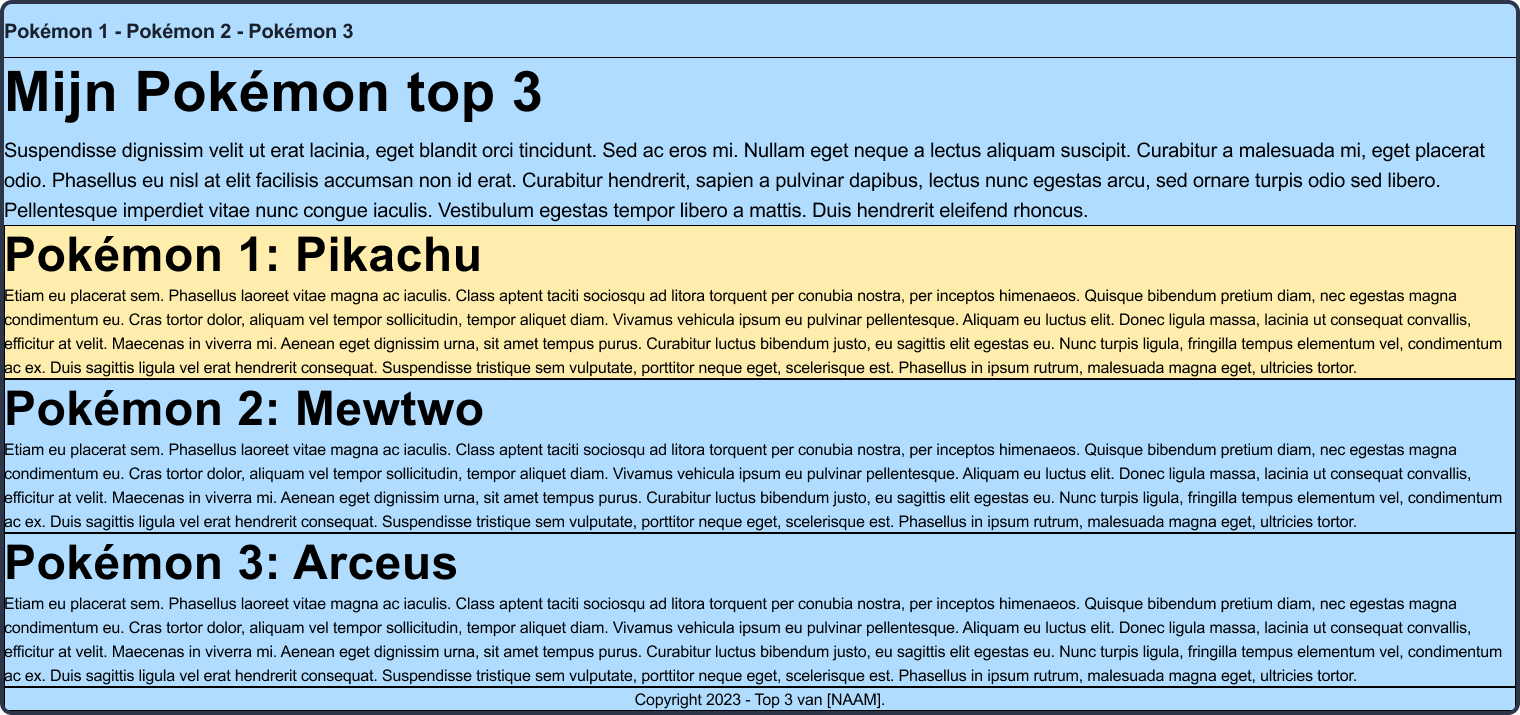
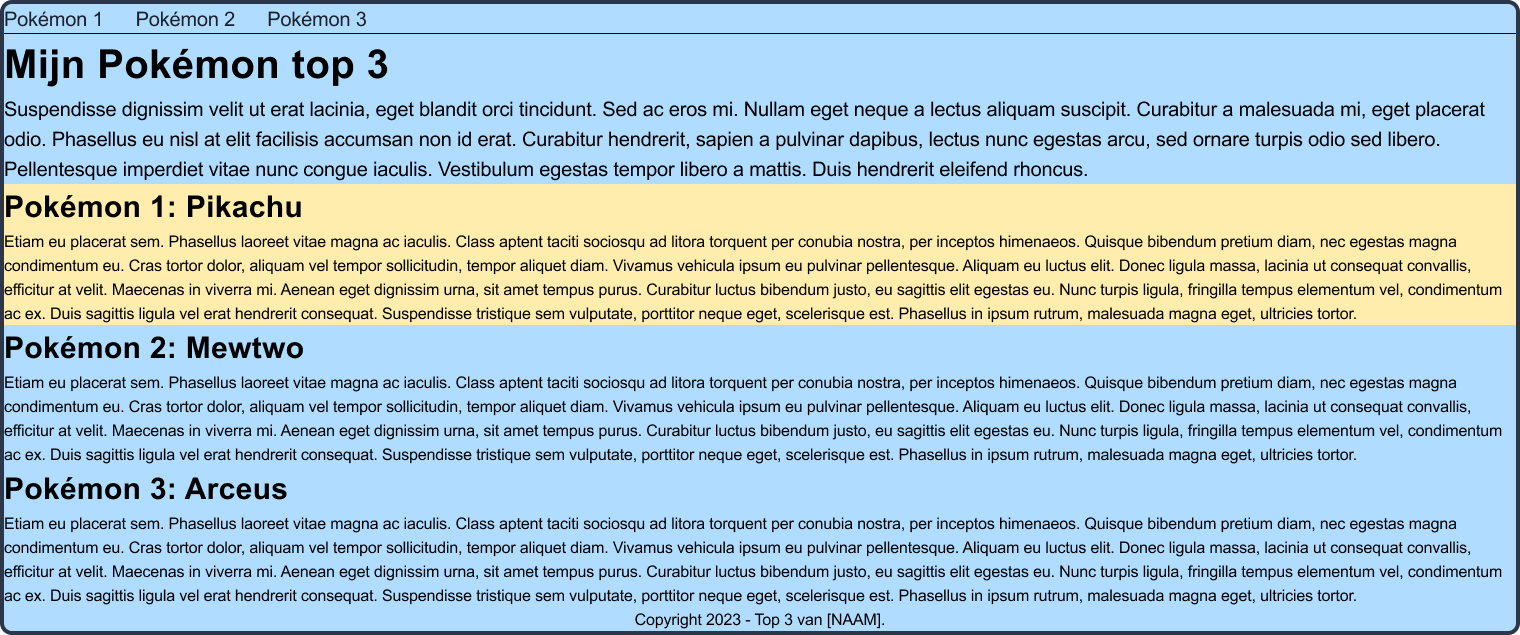
Update

diff --git a/week3-donderdag/mini-oefeningen/oefening3/css/style.css b/week3-donderdag/mini-oefeningen/oefening3/css/style.css
@@ -8,17 +8,3 @@ a {
 }
 
 /* Voer jouw code hieronder in */
-a {
-    padding: 30px;
-}
-
-.left {
-    padding-right: 10px;
-}
-.right {
-    padding-left: 10px;
-}
-
-.middle {
-    margin: 0 100px;
-}

diff --git a/week3-donderdag/mini-oefeningen/oefening6/css/style.css b/week3-donderdag/mini-oefeningen/oefening6/css/style.css
@@ -2,7 +2,7 @@ button {
     background-color: #FFFFFF;
     border: 1px solid #000000;
     border-radius: 5px;
-    font-size: 20px;
+    font-size: 40px;
 
     /* Voer jouw code hieronder in */
 

diff --git a/week3-donderdag/README.md b/week3-donderdag/README.md
@@ -133,12 +133,11 @@ inspector en voer de volgende opdrachten daarin uit:
 
 Vorige les heb je een project aangemaakt voor dit vak, waarschijnlijk heb je deze `frontend-development` genoemd. Maak
 hierin een nieuwe map aan met de naam `top3` (zonder spaties) en zet de basisstructuur neer, zoals uitgelegd
-in [opdracht 1d van vorige les](../week3-dinsdag/#opdracht-1d---bestandsstructuur-html-en-css).
+in [opdracht 1d van vorige les](../week3-dinsdag/#opdracht-1d---bestandsstructuur-html-en-css). De komende drie opdrachten maak je in deze map, dus je breidt jouw webpagina met iedere opdracht uit.
 <br><br>
 Bouw vervolgens het volgende ontwerp na *(klik op de afbeelding om te vergroten)*.
 <br>
-Je mag je eigen top 3 bedenken, maar gebruik verder testteksten. De focus ligt in deze opdracht **niet** op de inhoud,
-maar op de code.
+Je mag je eigen top 3 bedenken, maar gebruik verder testteksten. De focus ligt in deze opdracht ***niet*** op de inhoud, maar op de code.
 
 <img src="./images/Opdracht1.png" alt="Opdracht 1" title="Opdracht 1" width="800">
 
@@ -157,6 +156,7 @@ Je hebt hier het volgende voor nodig:
 | h2      |     |                   |
 | p       |     |                   |
 | a       |     |                   |
+| div       |     |                   |
 
 <br>
 
@@ -171,7 +171,7 @@ Je hebt hier het volgende voor nodig:
 
 ## Opdracht 2 - CSS: teksten en kleuren
 
-Bouw het volgende ontwerp na *(klik op de afbeelding om te vergroten)*.
+Breidt jouw webpagina uit door het volgende ontwerp na te bouwen *(klik op de afbeelding om te vergroten)*.
 
 <img src="./images/Opdracht2.png" alt="Opdracht 2" title="Opdracht 2" width="800">
 
@@ -185,6 +185,7 @@ Je hebt hier het volgende voor nodig:
 |      | Selectors o.b.v. class | #FFEDAD           |
 |      | font-family (Arial)    | #000000           |
 |      | font-size              |                   |
+|      | line-height              |                   |
 |      | color                  |                   |
 |      | background-color       |                   |
 |      | border                 |                   |
@@ -223,7 +224,7 @@ Je hebt hier het volgende voor nodig:
 
 ## Opdracht 3 - CSS: padding & margin
 
-Bouw het volgende ontwerp na *(klik op de afbeelding om te vergroten)*.
+Breidt jouw webpagina uit door het volgende ontwerp na te bouwen *(klik op de afbeelding om te vergroten)*.
 
 <img src="./images/Opdracht3.png" alt="Opdracht 3" title="Opdracht 3" width="800">
 

diff --git a/week3-donderdag/mini-oefeningen/README.md b/week3-donderdag/mini-oefeningen/README.md
@@ -5,6 +5,7 @@
 **Inhoudsopgave**
 - [Week 3 - Mini-oefeningen - Padding \& margin](#week-3---mini-oefeningen---padding--margin)
   - [Inleiding](#inleiding)
+    - [Hulpbronnen](#hulpbronnen)
   - [Mini-oefening 1](#mini-oefening-1)
   - [Mini-oefening 2](#mini-oefening-2)
   - [Mini-oefening 3](#mini-oefening-3)
@@ -17,6 +18,12 @@
 
 ## Inleiding
 Voltooi onderstaande mini-oefeningen. Voor iedere oefening is er al code klaargezet die jij moet afronden. Let erop dat deze oefeningen alleen over CSS gaan. Dus je mag het HTML-bestand wel bekijken, maar schrijf alleen maar code in het CSS-bestand.
+
+<br>
+
+### Hulpbronnen
+- [Documentatie padding](https://www.w3schools.com/css/css_padding.asp)
+- [Documentatie margin](https://www.w3schools.com/css/css_margin.asp)
 
 <br><hr><br><br>
 

diff --git a/week3-dinsdag/README.md b/week3-dinsdag/README.md
@@ -172,6 +172,7 @@ Je hebt hier het volgende voor nodig:
 | footer  |     |                   |
 | nav     |     |                   |
 | section |     |                   |
+| div |     |                   |
 
 <br>
 
